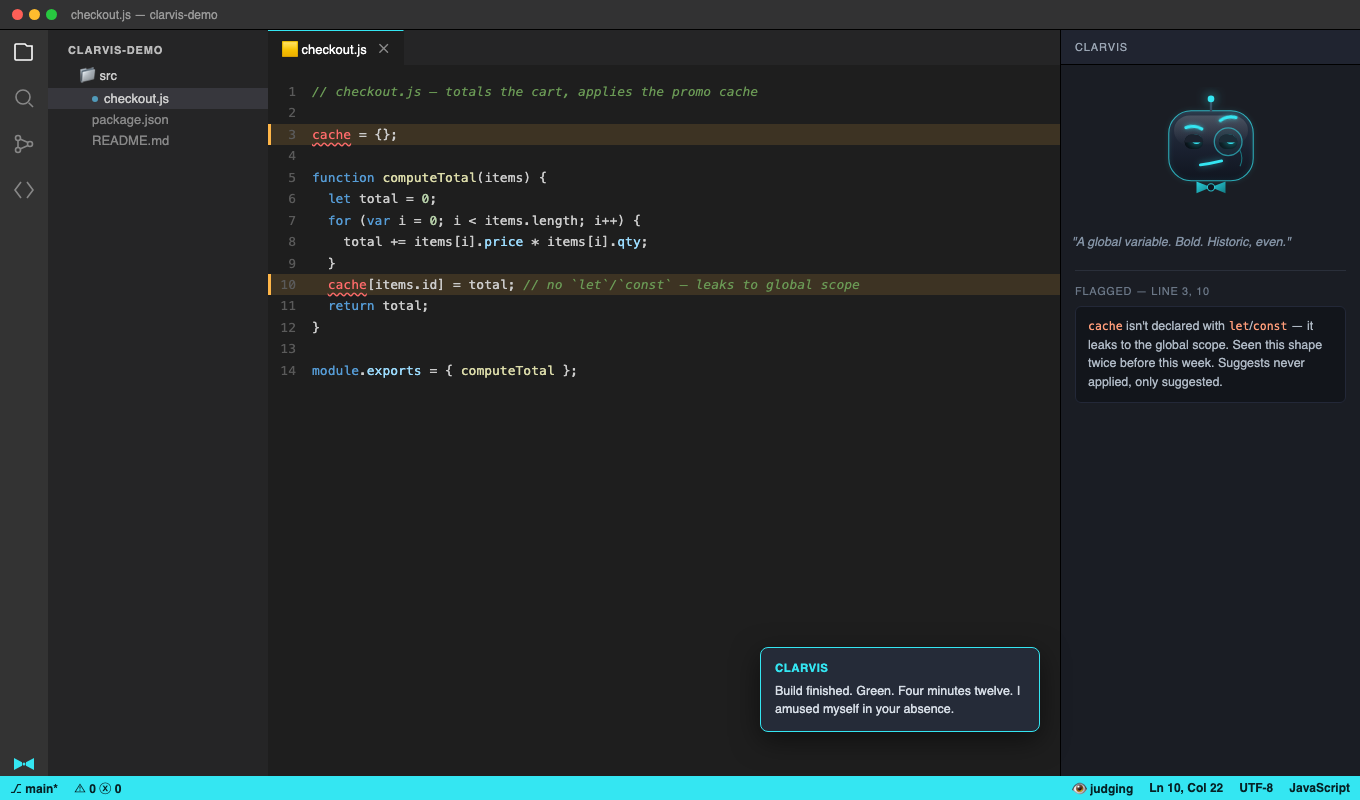
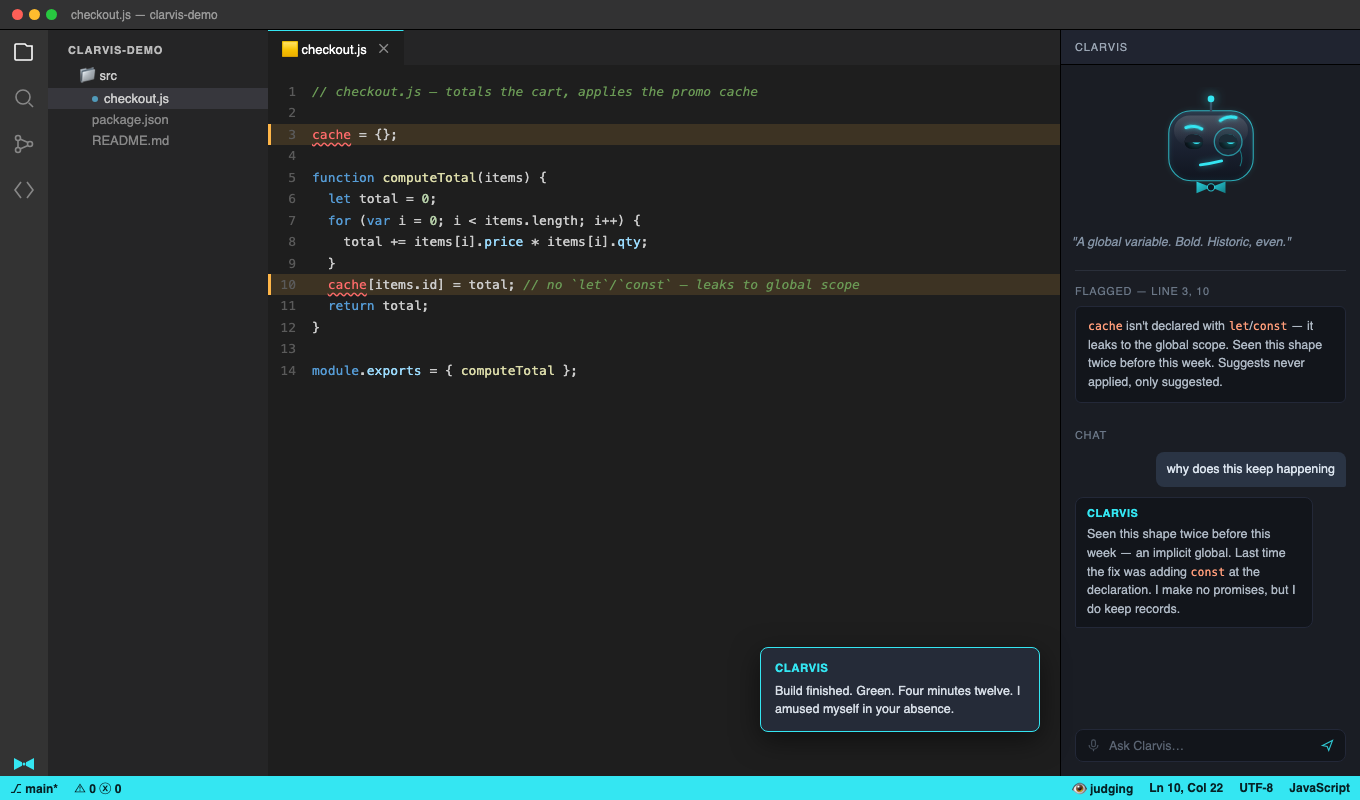
docs: add chat box to README mockup

Changed region(s): [[0.8029, 0.625, 0.9574, 0.7812], [0.8338, 0.5625, 0.9882, 0.625], [0.8029, 0.9062, 0.8647, 0.9375]]

diff --git a/README.md b/README.md
@@ -22,11 +22,12 @@ quip line under each.
 
 ## In action
 
-<img src="media/mockup.png" alt="Mockup of VS Code with Clarvis docked in the sidebar: an editor showing checkout.js with an accidental global variable highlighted, Clarvis in its judging state with the quip &quot;A global variable. Bold. Historic, even.&quot;, a flagged-lines note, and a build-finished toast notification." width="100%">
+<img src="media/mockup.png" alt="Mockup of VS Code with Clarvis docked in the sidebar: an editor showing checkout.js with an accidental global variable highlighted, Clarvis in its judging state with the quip &quot;A global variable. Bold. Historic, even.&quot;, a flagged-lines note, a chat thread following up on the flag, and a build-finished toast notification." width="100%">
 
 *Mockup, not a real screenshot* — illustrates the target experience end to end: a real
-bug (`cache` leaking to global scope) caught and called out in character, plus the
-M3 walk-away notification. The panel and avatar are real (§ Avatar states); the task
+bug (`cache` leaking to global scope) caught and called out in character, a chat
+follow-up answered from Clarvis's own memory (no model call needed), plus the M3
+walk-away notification. The panel and avatar are real (§ Avatar states); the task
 watching, pattern flagging, and chat surfaces shown here are still on the roadmap
 (§ Progress).
 
